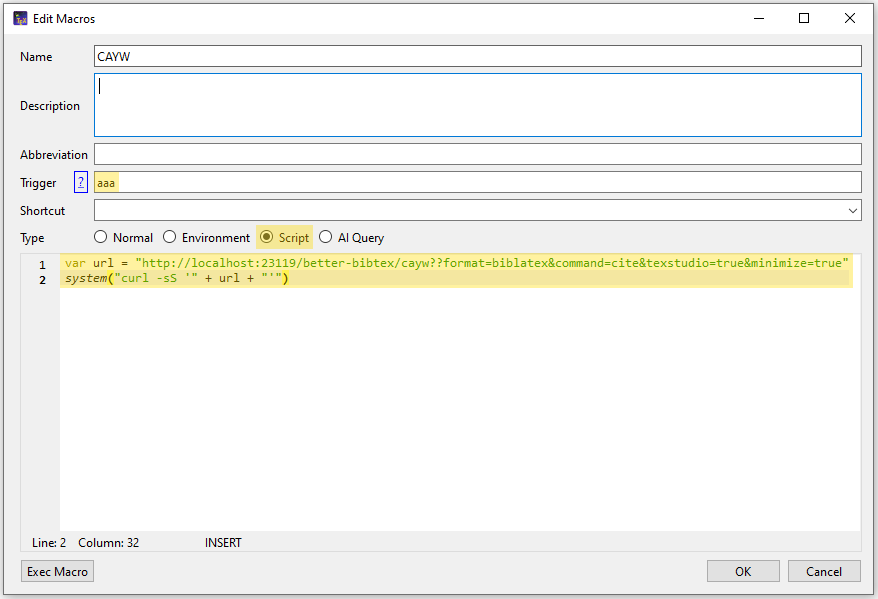
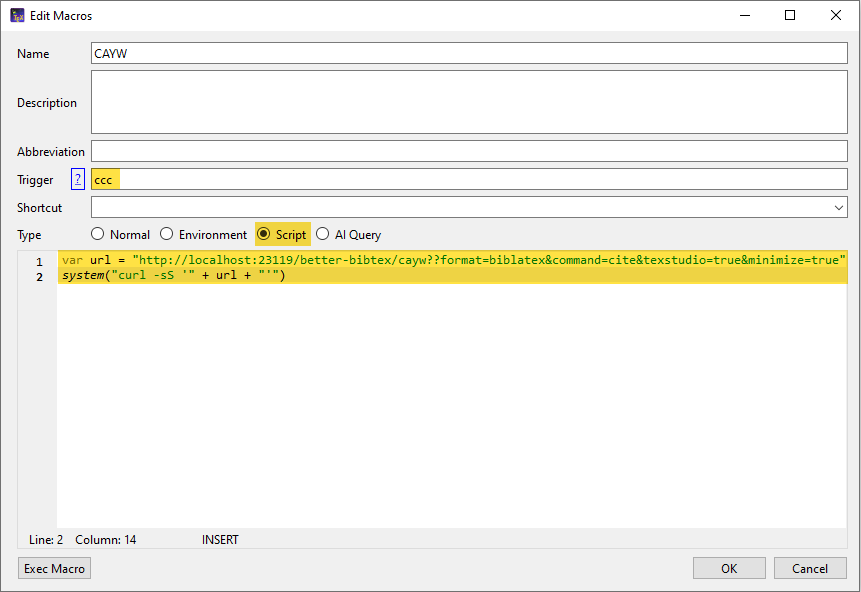
change aaa to ccc

Changed region(s): [[0.0, 0.0, 1.0, 1.0], [0.2114, 0.8818, 0.2718, 0.9426]]

diff --git a/_posts/2025-07-25-cayw-endpoint.md b/_posts/2025-07-25-cayw-endpoint.md
@@ -35,7 +35,7 @@ system("curl -sS '" + url + "'")
 
 After that, you can save the macro and close the dialog by clicking `Ok`.
 
-Now you can use the macro by typing "aaa" and the search dialog opens up and you can then search for entries and select them.
+Now you can use the macro by typing "ccc" and the search dialog opens up and you can then search for entries and select them.
 
 ![cayw-texstudio.png](../img/cayw-texstudio.png)
 ![cayw-search.png](../img/cayw-search.png)
